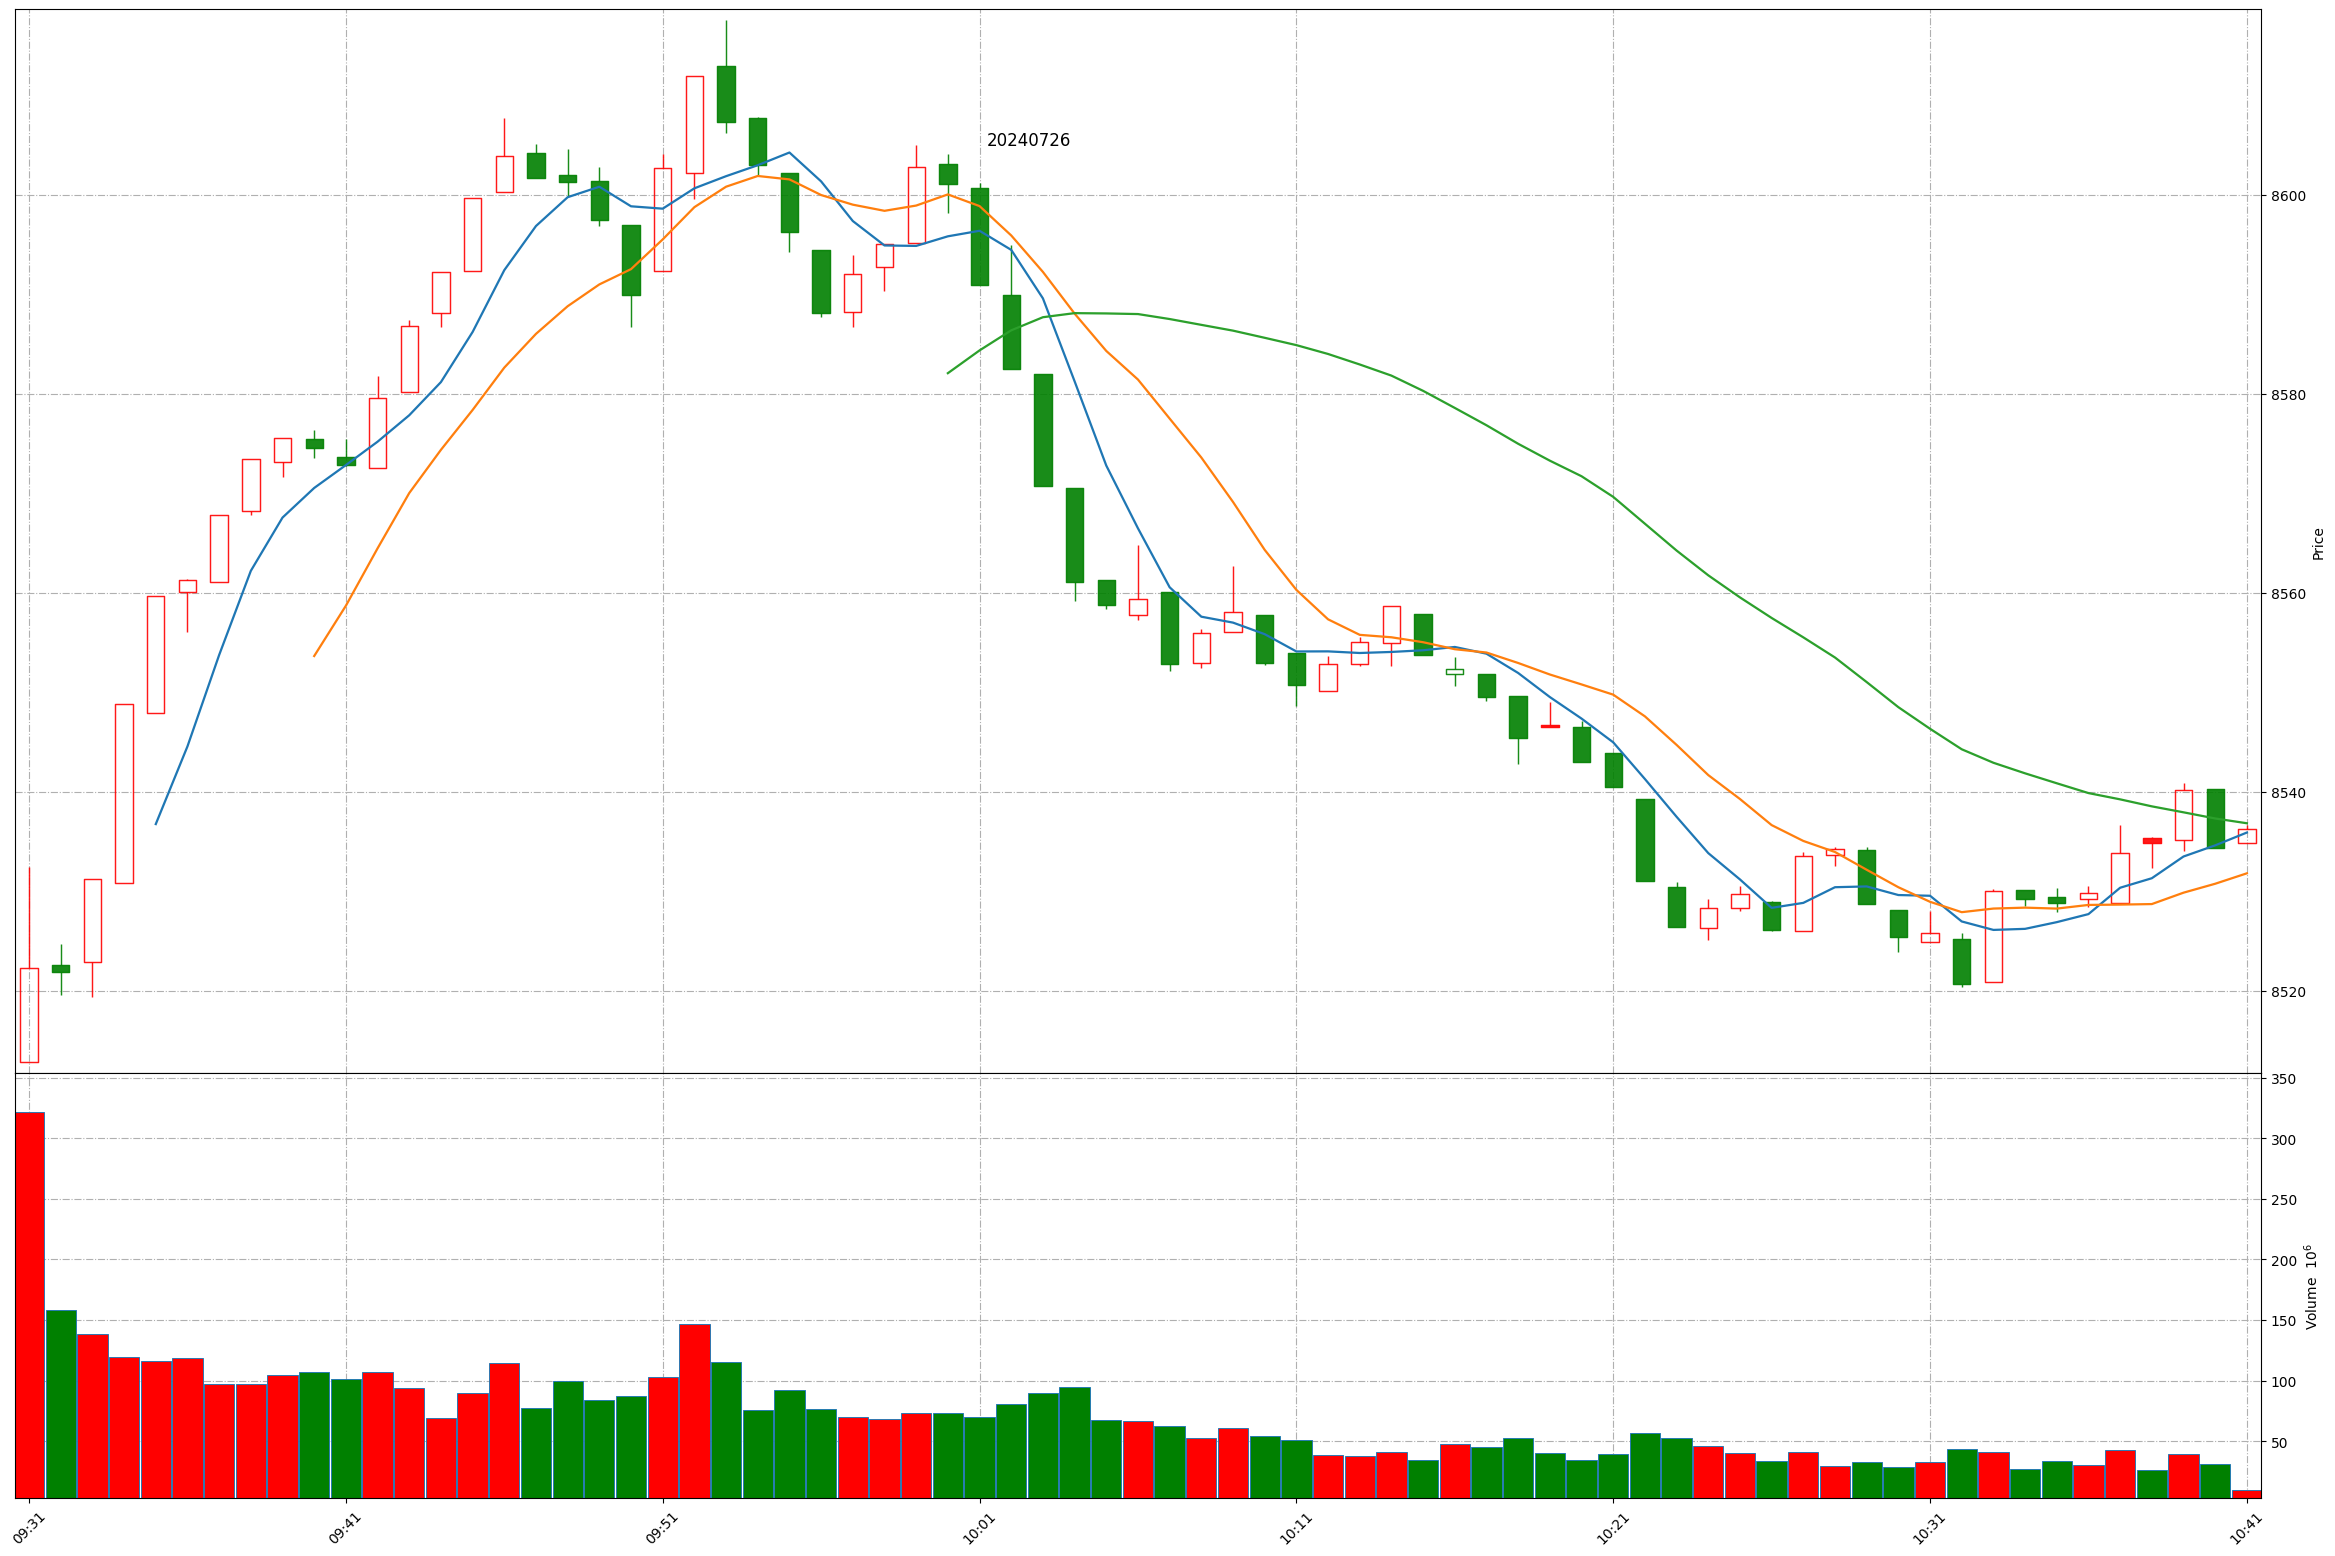
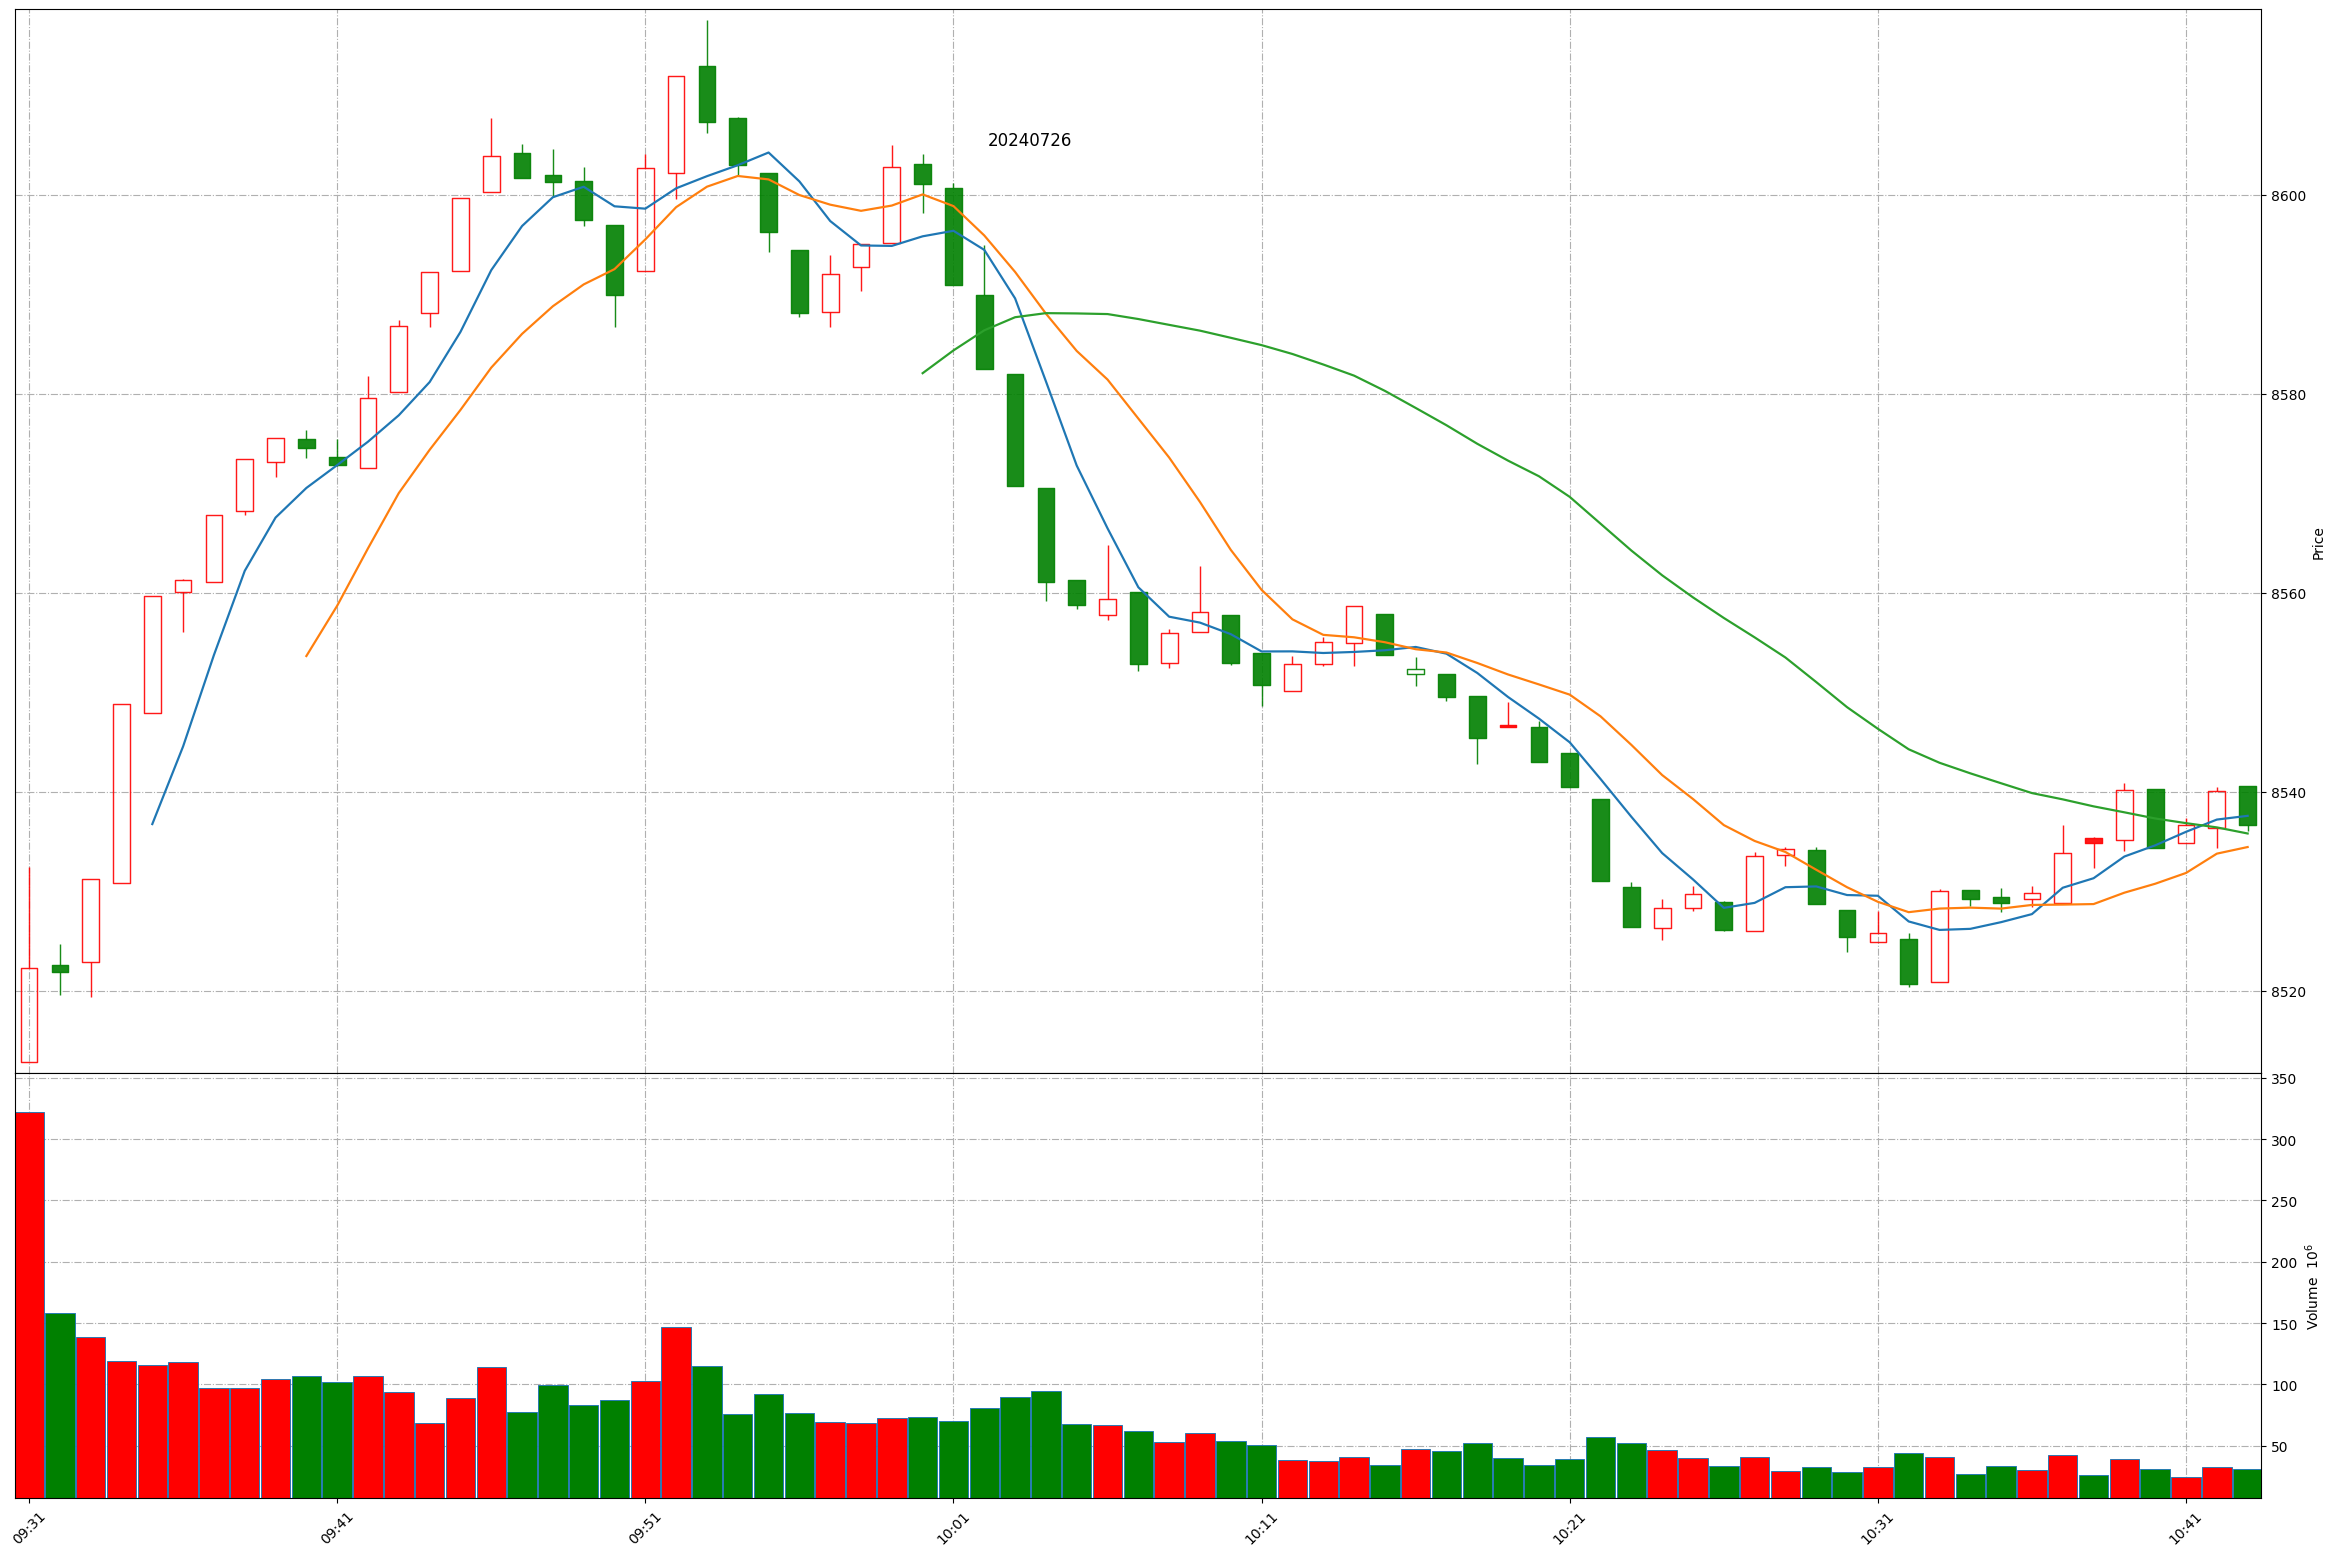
Github action update at 2024-07-26 10:43:12.

diff --git a/README.md b/README.md
@@ -1,11 +1,11 @@
 
 # Daily-A-share-market-quotes 每日 A 股指数（5min 更新）- 20240726
 
-### 上证指数 20240726 10:40
+### 上证指数 20240726 10:43
 ![](./fig/2024/7/20240726-sh000001.png)
 
-### 深证成指 20240726 10:40
+### 深证成指 20240726 10:43
 ![](./fig/2024/7/20240726-sz399001.png)
 
-### 北证50 20240726 10:40
+### 北证50 20240726 10:43
 ![](./fig/2024/7/20240726-bj899050.png)
